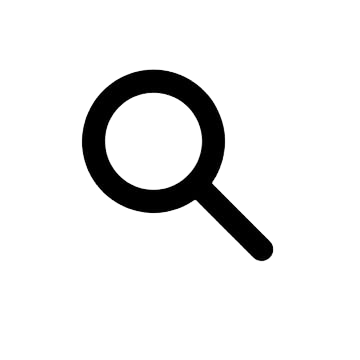
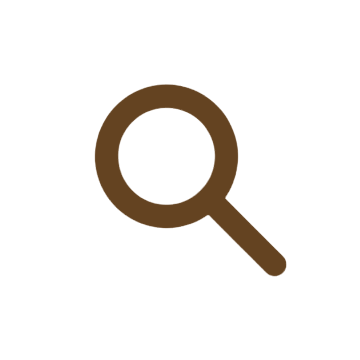
Some design updates

Changed region(s): [[0.2139, 0.1833, 0.7944, 0.7639]]

diff --git a/login/templates/base.html b/login/templates/base.html
@@ -7,6 +7,7 @@
     <meta name="viewport" content="width=device-width, initial-scale=1.0">
     <link href="https://cdn.jsdelivr.net/npm/bootstrap@5.3.0-alpha3/dist/css/bootstrap.min.css" rel="stylesheet" integrity="sha384-KK94CHFLLe+nY2dmCWGMq91rCGa5gtU4mk92HdvYe+M/SXH301p5ILy+dN9+nJOZ" crossorigin="anonymous">
     <script src="https://cdn.jsdelivr.net/npm/bootstrap@5.3.0-alpha3/dist/js/bootstrap.bundle.min.js" integrity="sha384-ENjdO4Dr2bkBIFxQpeoTz1HIcje39Wm4jDKdf19U8gI4ddQ3GYNS7NTKfAdVQSZe" crossorigin="anonymous"></script>
+    <link rel="shortcut icon" href="{% static 'favicon.png' %}" type="image/png"/>
     <title>Comprara!</title>
 </head>
 <body style="background-color:#f7e8d7;">
@@ -15,7 +16,7 @@
       <div class="container-fluid">
         <div>
           <a class="navbar-brand" href="{% url 'home' %}">
-            <img src="{% static 'logo.png' %}" alt="Comprara!" style="height: 80px; width: auto;">
+            <img src="{% static 'logo.png' %}" alt="Comprara!" style="height: 70px; width: auto;">
           </a>  
         </div>
         <div>
@@ -23,16 +24,35 @@
             {% csrf_token %}
             <input class="form-control me-2" placeholder="Buscar un producto..." name="search_string" type="search" aria-label="Search" style="width: 1000px; border:2px solid #644321;">
             <!-- Al cambiar de <a> a <button> queda horrible visualmente-->
-            <button type="submit" class="nav-link" style="color: #644321; font-weight:bold; font-size: x-large; padding-right: 50px;"><img src="{% static 'search.png' %}" alt="Profile" style="height: 50px; width: auto; padding-right: 5px;"/></a>
+            <button type="submit" class="nav-link" style="color: #644321; font-weight:bold; font-size: x-large; padding-right: 50px;">
+              <img src="{% static 'search.png' %}" alt="Profile" style="height: 50px; width: auto; padding-right: 5px;"/>
+            </a>
           </form>  
         </div>
         <div>
         </div>
           {% if user.is_authenticated %}
-            <a class="nav-link disabled" style="color: #644321; font-weight:bold; font-size: x-large; padding-right: 50px;"><img src="{% static 'profile.png' %}" alt="Profile" style="height: 50px; width: auto; padding-right: 5px;"/>{{user.username}}</a>
-            <a class="nav-link" href="{% url 'logout' %}" style="color: #644321; font-weight:bold; font-size: x-large; padding-right: 50px;">Salir</a>
+          <div class="dropdown">
+            <a class=" dropdown-toggle" style="color: #644321; font-weight:bold; font-size: x-large; padding-right: 50px; text-decoration: none;" href="#" role="button" data-bs-toggle="dropdown">
+              <img src="{% static 'profile.png' %}" alt="Profile" style="height: 40px; width: auto; padding-right: 15px;"/>
+              {{user.username}}
+            </a>
+            <ul class="dropdown-menu">
+              <li>
+                <a class="dropdown-item" href="#" style="color: #644321; font-weight:bold; font-size: large; text-align: center;">
+                  Mi perfil
+                </a>
+                <a class="dropdown-item" href="{% url 'logout' %}" style="color: #644321; font-weight:bold; font-size: large; text-align: center;">
+                  Salir
+                </a>
+              </li>
+            </ul>
+          </div>
           {% else %}
-            <a class="nav-link" href="{% url 'login' %}" style="color: #644321; font-weight:bold; font-size: x-large; padding-right: 50px;"><img src="{% static 'profile.png' %}" alt="Profile" style="height: 50px; width: auto; padding-right: 5px;"/>Ingresar</a>
+            <a class="nav-link" href="{% url 'login' %}" style="color: #644321; font-weight:bold; font-size: x-large; padding-right: 50px;">
+              <img src="{% static 'profile.png' %}" alt="Profile" style="height: 40px; width: auto; padding-right: 15px;"/>
+              Ingresar
+            </a>
           {% endif %}
       </div>
     </nav>

diff --git a/login/templates/register.html b/login/templates/register.html
@@ -1,3 +1,4 @@
+{% load static %}
 <!DOCTYPE html>
 <html lang="en">
 <head>
@@ -8,10 +9,13 @@
     <script src="https://cdn.jsdelivr.net/npm/bootstrap@5.3.0-alpha3/dist/js/bootstrap.bundle.min.js" integrity="sha384-ENjdO4Dr2bkBIFxQpeoTz1HIcje39Wm4jDKdf19U8gI4ddQ3GYNS7NTKfAdVQSZe" crossorigin="anonymous"></script>
     <title>Registrarme</title>
 </head>
-<body style="background-color:#f7e8d7;">
+<body style="background-color:#f7e8d7; padding-top: 100px;">
     {% include "base.html" %}
 
-    <a class="fs-4" href="{% url 'home' %}" style="color: #644321; font-weight:bold; font-size: x-large; padding: 1%;">Inicio</a>
+    <a class="fs-4" href="{% url 'home' %}" style="color: #644321; font-weight:bold; font-size: x-large; padding: 1%; text-decoration: none;">
+      <img src="{% static 'left-arrow.png' %}" alt="left-arrow!" style="height: 40px; width: auto;">
+      Inicio
+    </a>
 
     <!-- register -->
     <form class="d-flex flex-column mb-3 align-items-center position-absolute top-50 start-50 translate-middle" action="{% url 'complete_registration' %}" method="POST" style="padding: 10%;">

diff --git a/login/templates/login.html b/login/templates/login.html
@@ -1,3 +1,4 @@
+{% load static %}
 <!DOCTYPE html>
 <html lang="en">
 <head>
@@ -8,10 +9,13 @@
     <script src="https://cdn.jsdelivr.net/npm/bootstrap@5.3.0-alpha3/dist/js/bootstrap.bundle.min.js" integrity="sha384-ENjdO4Dr2bkBIFxQpeoTz1HIcje39Wm4jDKdf19U8gI4ddQ3GYNS7NTKfAdVQSZe" crossorigin="anonymous"></script>
     <title>Iniciar Sesión</title>
 </head>
-<body style="background-color:#f7e8d7;">
+<body style="background-color:#f7e8d7; padding-top: 100px;">
     {% include "base.html" %}
 
-    <a class="fs-4" href="{% url 'home' %}" style="color: #644321; font-weight:bold; font-size: x-large; padding: 1%;"> Inicio</a>
+    <a class="fs-4" href="{% url 'home' %}" style="color: #644321; font-weight:bold; font-size: x-large; padding: 1%; text-decoration: none;">
+      <img src="{% static 'left-arrow.png' %}" alt="left-arrow!" style="height: 40px; width: auto;">
+      Inicio
+    </a>
 
     <!-- login -->
     <form class="d-flex flex-column mb-3 align-items-center position-absolute top-50 start-50 translate-middle" action="{% url 'complete_login' %}" method="POST" style="padding: 10%;">

diff --git a/home/templates/index.html b/home/templates/index.html
@@ -6,7 +6,7 @@
     <meta name="viewport" content="width=device-width, initial-scale=1.0">
     <title>Comprara!</title>
 </head>
-<body>
-    {% include "base.html" %}
+<body style="background-color:#f7e8d7; padding-top: 100px;">
+    {% include "base.html" %}    
 </body>
 </html>

diff --git a/login/views.py b/login/views.py
@@ -59,7 +59,7 @@ def complete_registration(request):
         user = User(username = request.POST['username'], password = request.POST['password'])
         user.set_password(request.POST['password'])
         user.save()
-        return redirect('home')
+        return redirect('login')
     else:
         messages.error(request, 'Las contraseñas no coinciden')
         return render(request, 'register.html')
